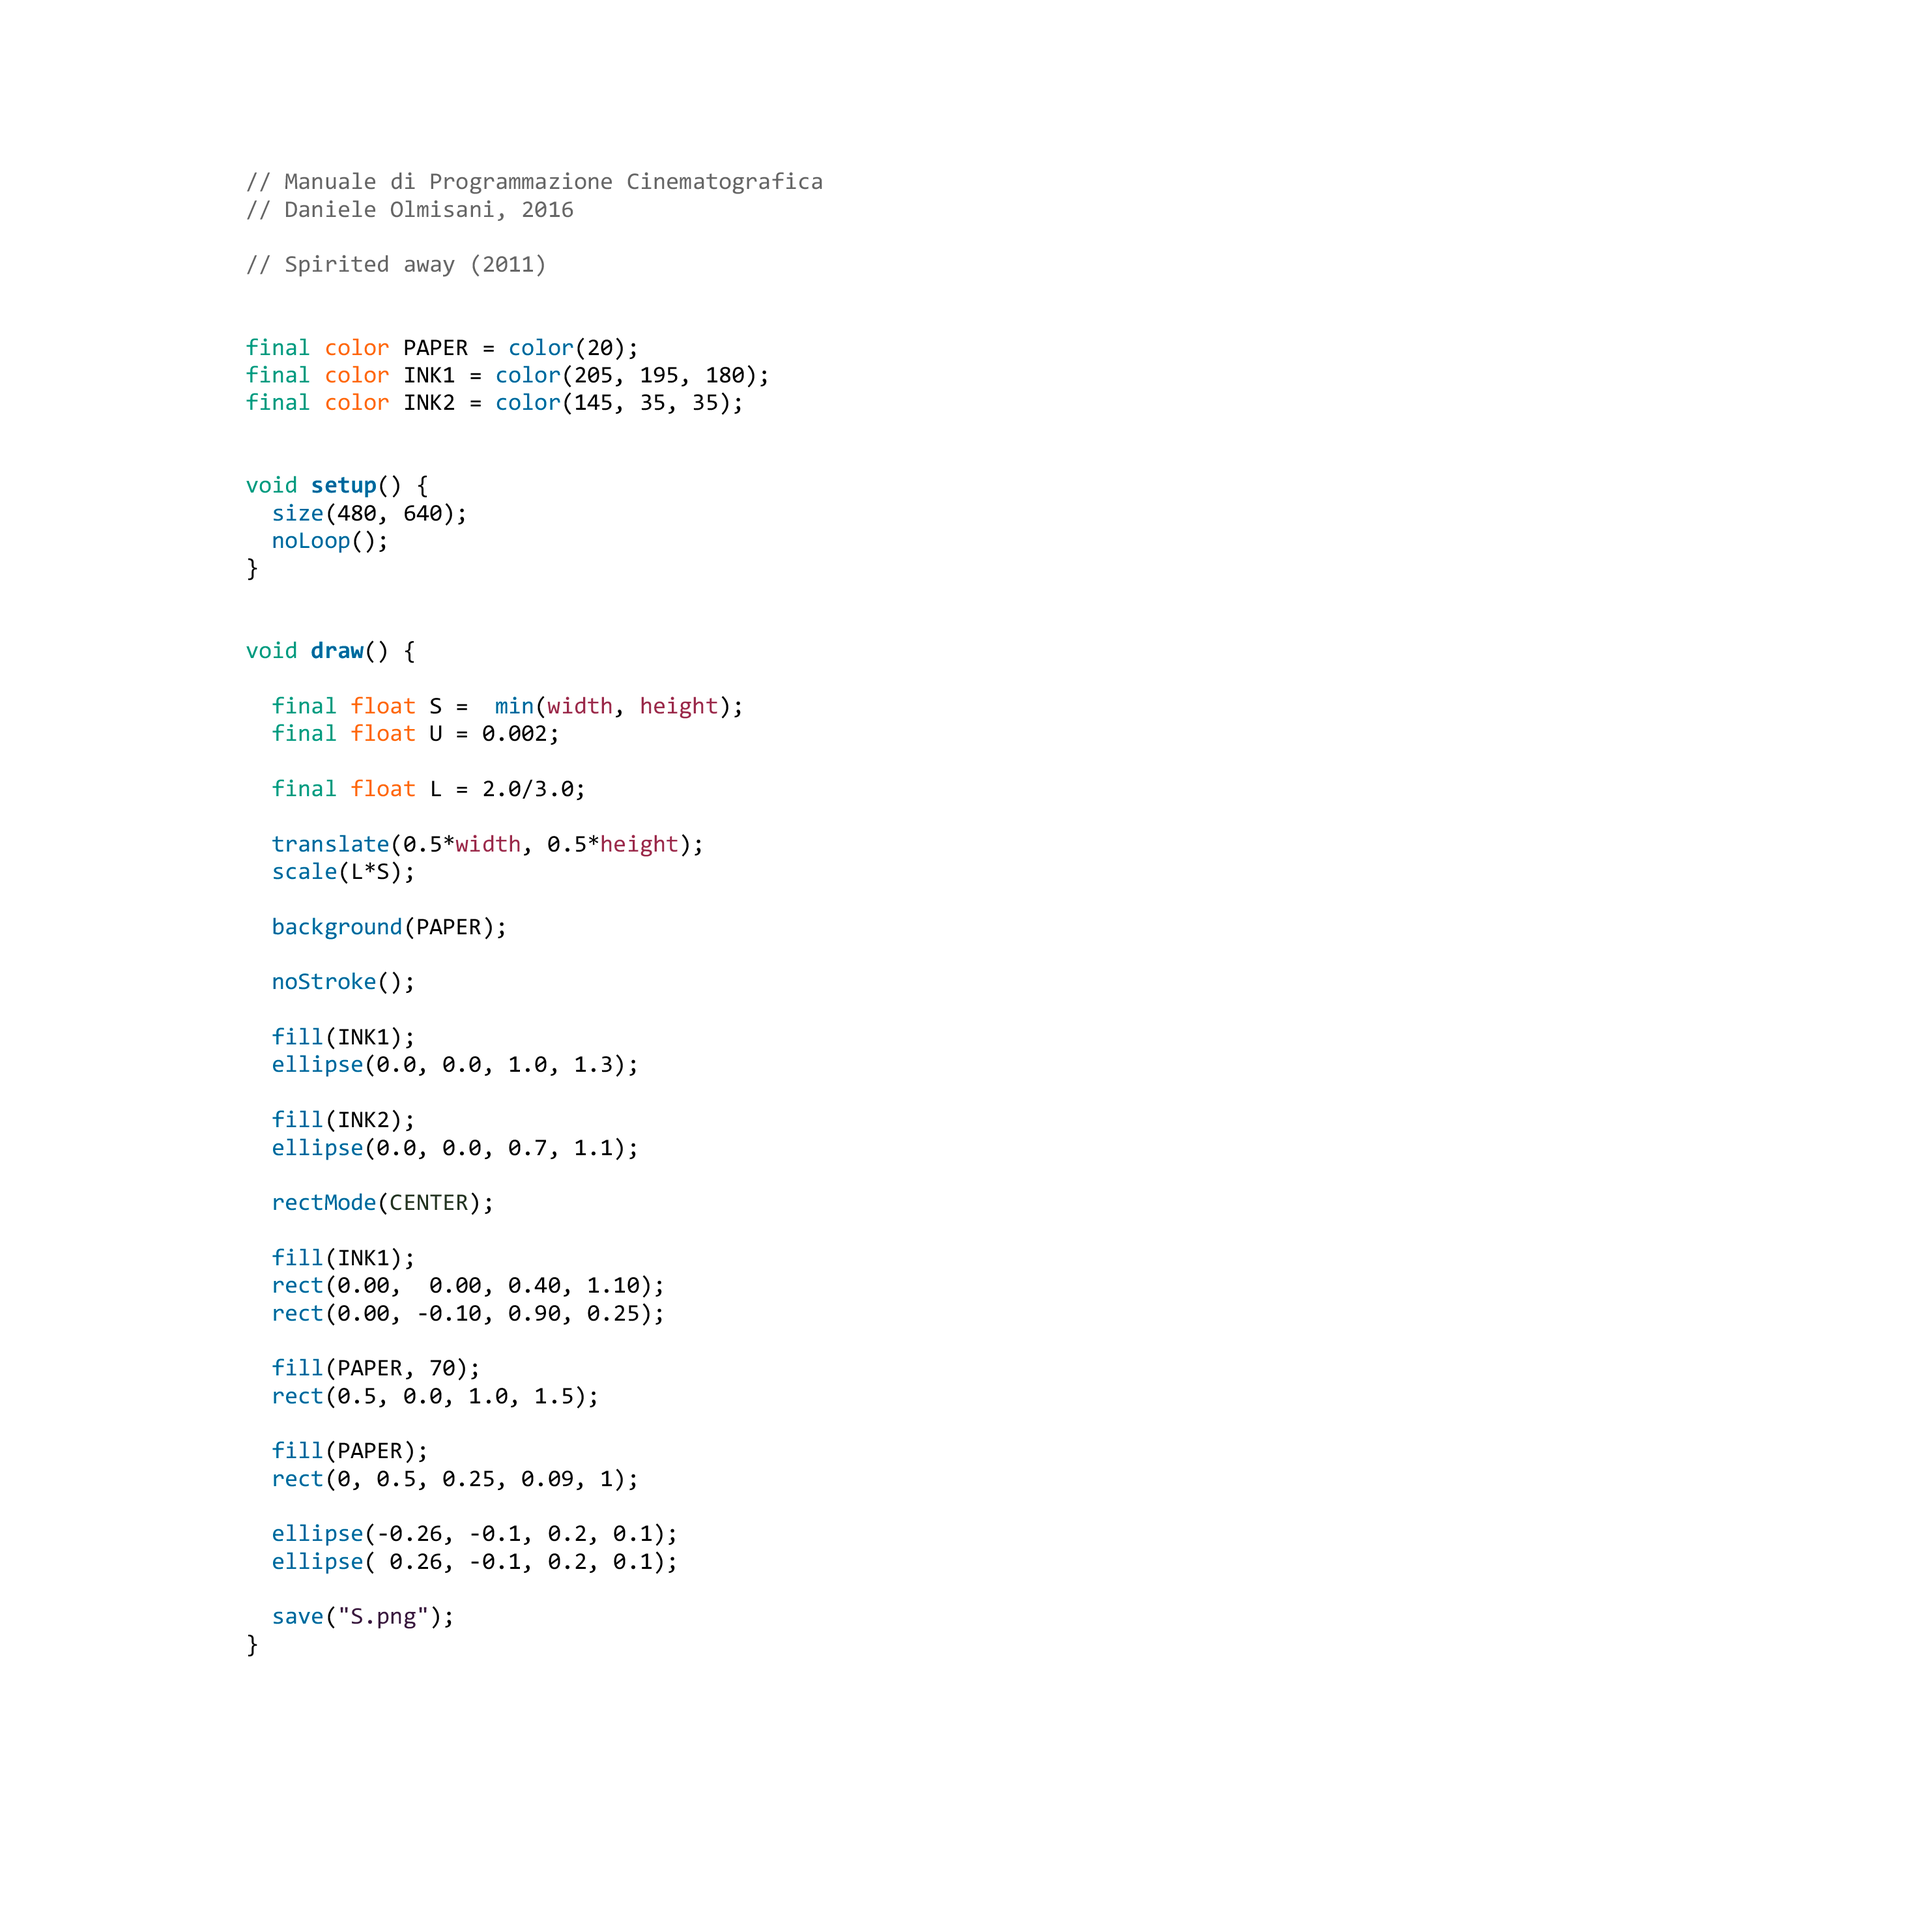
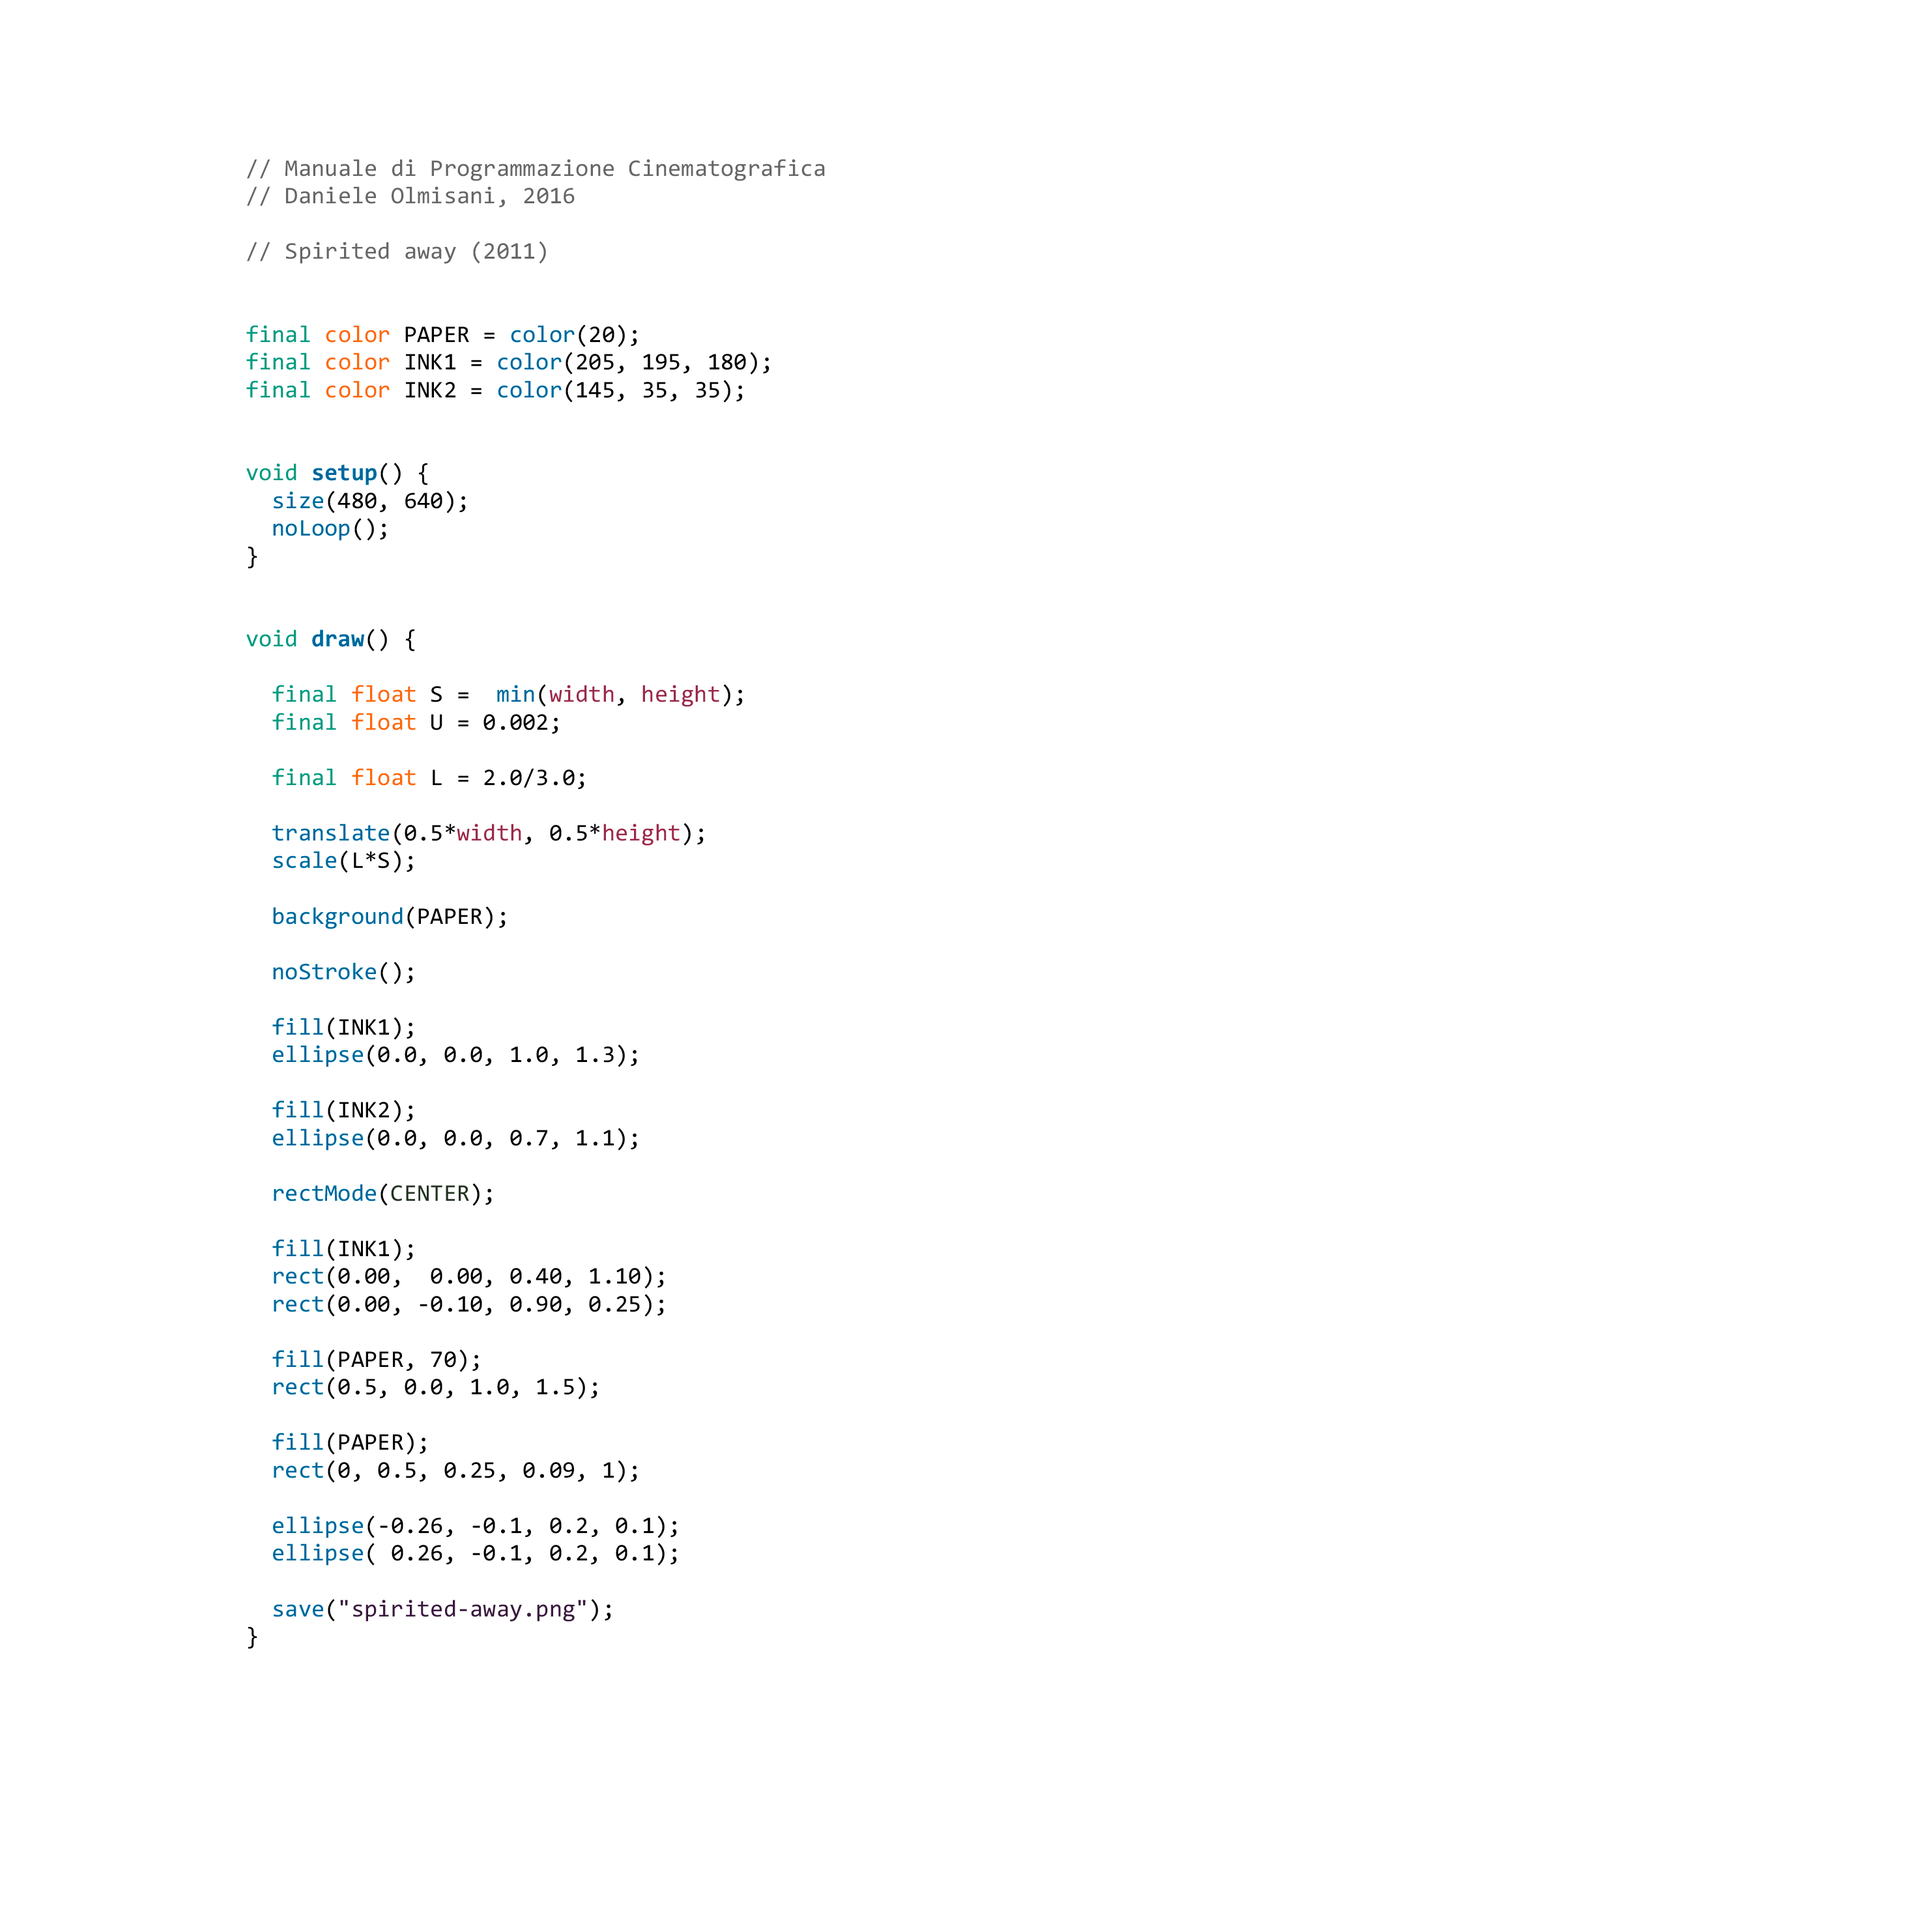
fixed Spirited Away code page

diff --git a/assets/volume1/code-vol1/spirited-away.html b/assets/volume1/code-vol1/spirited-away.html
@@ -51,7 +51,7 @@
 &nbsp;&nbsp;<span style="color: #006699;">ellipse</span>(-0.26, -0.1, 0.2, 0.1);
 &nbsp;&nbsp;<span style="color: #006699;">ellipse</span>( 0.26, -0.1, 0.2, 0.1);
 &nbsp;&nbsp;
-&nbsp;&nbsp;<span style="color: #006699;">save</span>(<span style="color: #7D4793;">&quot;S.png&quot;</span>);
+&nbsp;&nbsp;<span style="color: #006699;">save</span>(<span style="color: #7D4793;">&quot;spirited-away.png&quot;</span>);
 }
 
 </pre></body></html>
